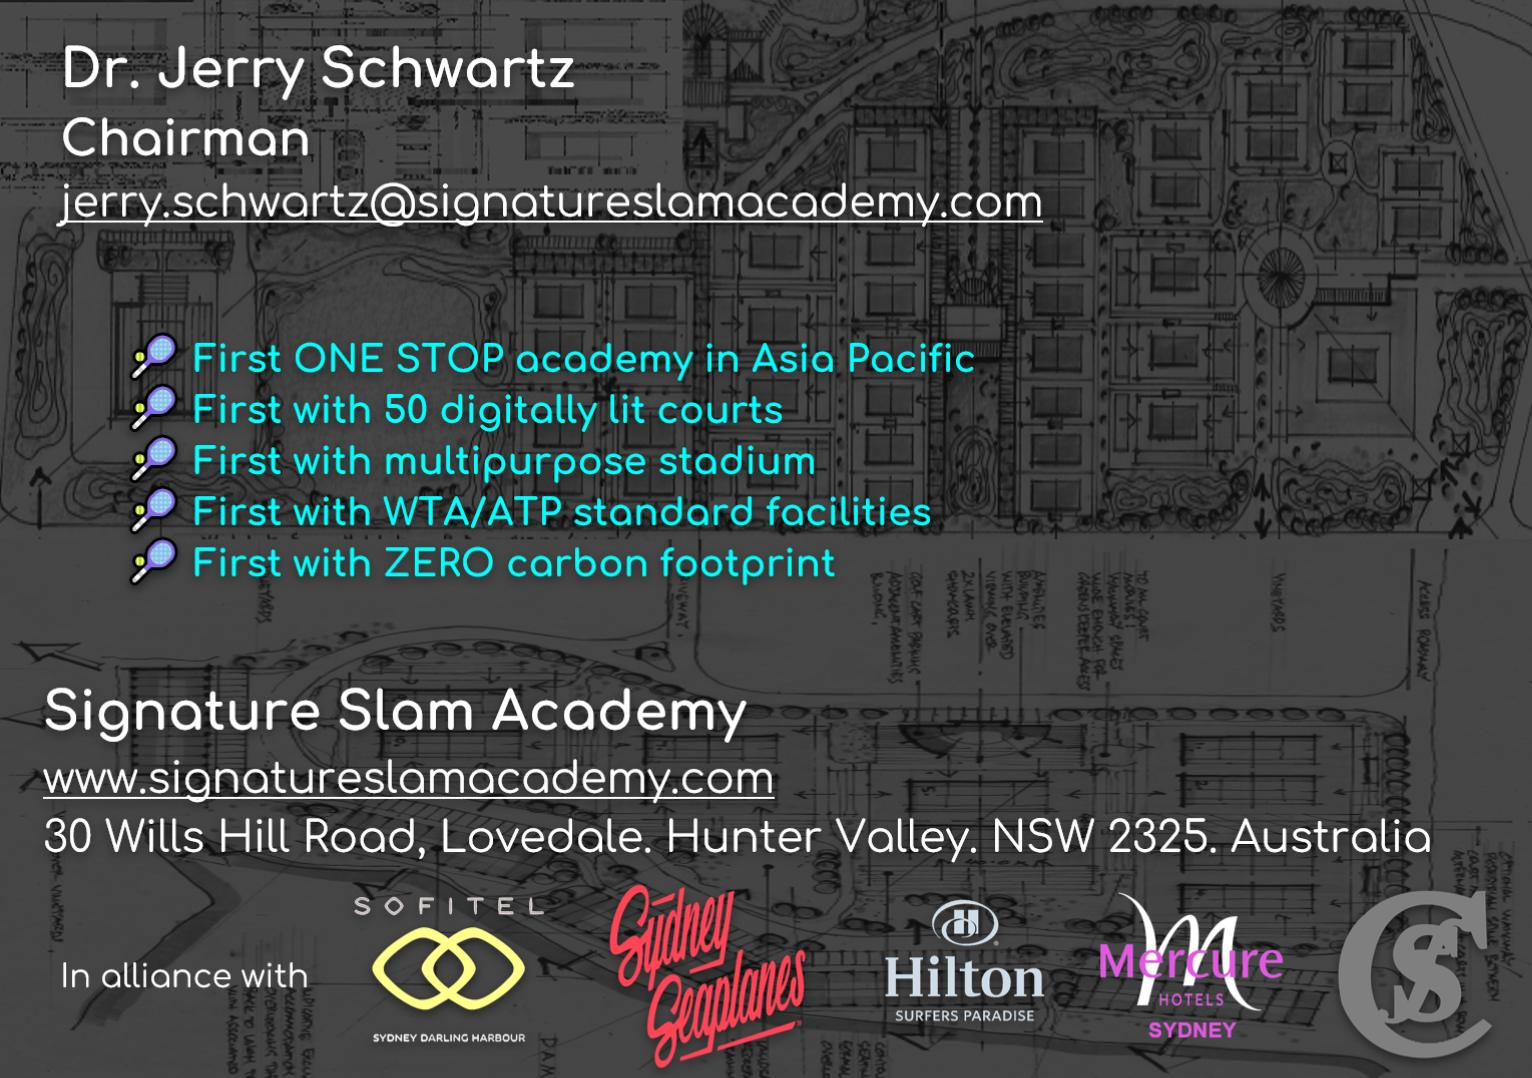
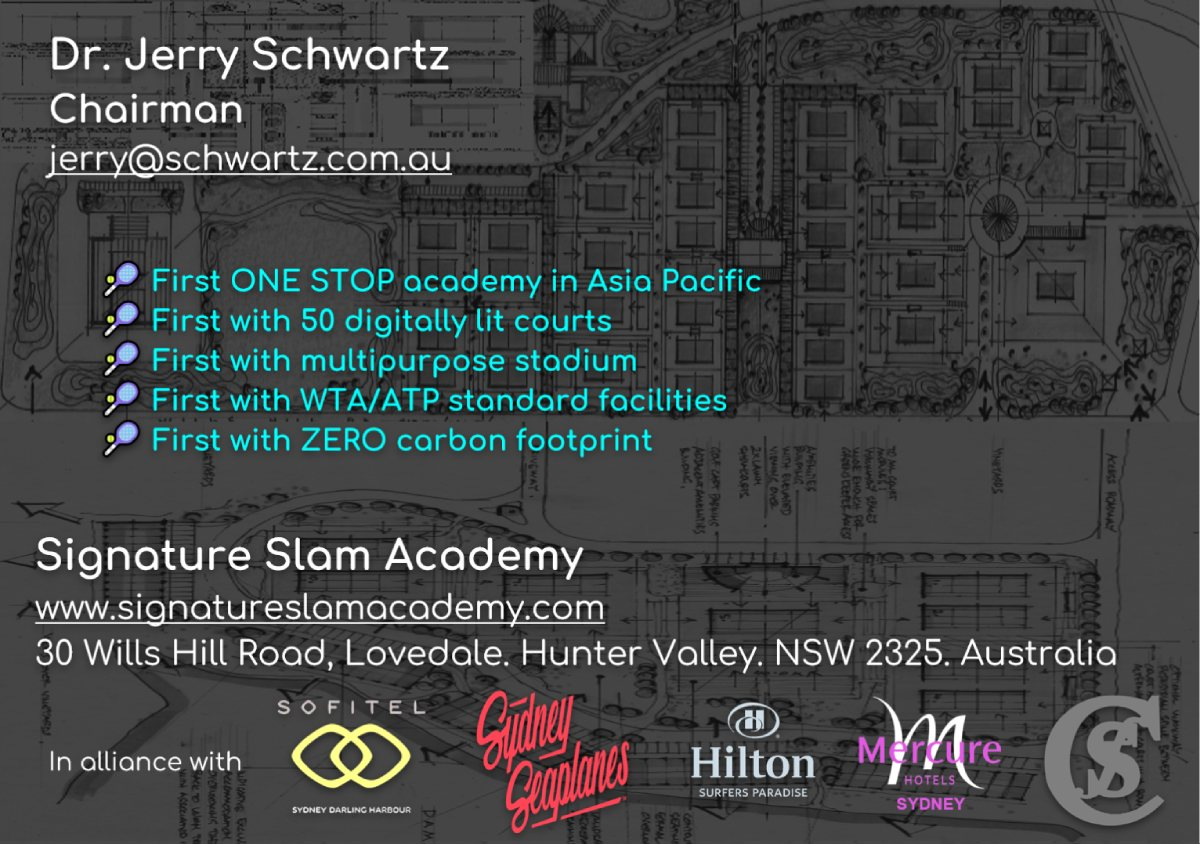
Add files via upload

diff --git a/index.html b/index.html
@@ -20,7 +20,7 @@
     <div style="position:relative">
         <img id="main-image" src="assets/Dr Jerry.jpg" width="100%">
         <a href="https://www.signatureslamblast.com" class="rim-hotspot" style="width:44.9%; height:5.1%; left:3.2%; top:70.8%; position:absolute; cursor:pointer; display:block; z-index:5; overflow:hidden;"></a>
-        <a href="mailto:jerry.schwartz@signatureslamblast.com" class="rim-hotspot" style="width:59.4%; height:6.3%; left:3.3%; top:15.4%; position:absolute; cursor:pointer; display:block; z-index:5; overflow:hidden;"></a>
+        <a href="mailto:jerry@schwartz.com.au" class="rim-hotspot" style="width:59.4%; height:6.3%; left:3.3%; top:15.4%; position:absolute; cursor:pointer; display:block; z-index:5; overflow:hidden;"></a>
         <a href="https://www.schwartz.com.au/" class="rim-hotspot" style="width:13.0%; height:16.7%; left:87.0%; top:82.8%; position:absolute; cursor:pointer; display:block; z-index:5; overflow:hidden;"></a>
         <a href="https://www.mercuresydney.com.au/" class="rim-hotspot" style="width:14.5%; height:16.5%; left:71.8%; top:82.6%; position:absolute; cursor:pointer; display:block; z-index:5; overflow:hidden;"></a>
         <a href="https://hiltonsurfersparadise.com.au/" class="rim-hotspot" style="width:15.7%; height:16.7%; left:55.4%; top:82.8%; position:absolute; cursor:pointer; display:block; z-index:5; overflow:hidden;"></a>
@@ -31,7 +31,7 @@
     <div style="position:relative">
         <img id="main-image" src="assets/Dr Jerry 2.jpg" width="100%">
         <a href="https://www.signatureslamacademy.com" class="rim-hotspot" style="width:50.7%; height:6.4%; left:1.9%; top:68.8%; position:absolute; cursor:pointer; display:block; z-index:5; overflow:hidden;"></a>
-        <a href="mailto:jerry.schwartz@signatureslamacademy.com" class="rim-hotspot" style="width:66.1%; height:6.5%; left:2.9%; top:15.8%; position:absolute; cursor:pointer; display:block; z-index:5; overflow:hidden;"></a>
+        <a href="mailto:jerry@schwartz.com.au" class="rim-hotspot" style="width:66.1%; height:6.5%; left:2.9%; top:15.8%; position:absolute; cursor:pointer; display:block; z-index:5; overflow:hidden;"></a>
         <a href="https://www.schwartz.com.au/" class="rim-hotspot" style="width:13.0%; height:16.7%; left:87.0%; top:82.8%; position:absolute; cursor:pointer; display:block; z-index:5; overflow:hidden;"></a>
         <a href="https://www.mercuresydney.com.au/" class="rim-hotspot" style="width:14.5%; height:16.5%; left:71.8%; top:82.6%; position:absolute; cursor:pointer; display:block; z-index:5; overflow:hidden;"></a>
         <a href="https://hiltonsurfersparadise.com.au/" class="rim-hotspot" style="width:15.7%; height:16.7%; left:55.4%; top:82.8%; position:absolute; cursor:pointer; display:block; z-index:5; overflow:hidden;"></a>
